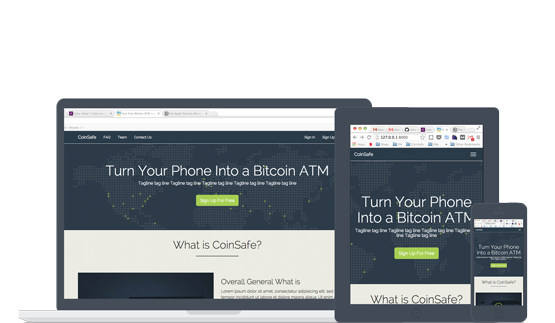
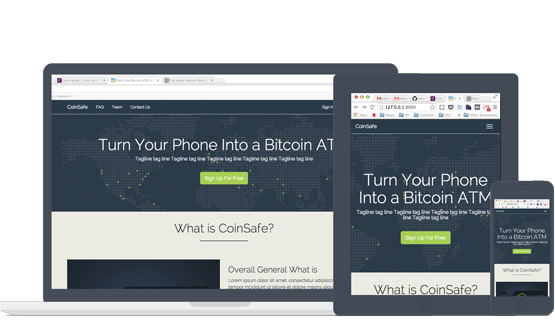
Update to the graphics on the what is coinsafe section on the homepage.

diff --git a/templates/index.html b/templates/index.html
@@ -41,52 +41,48 @@
   </div>
 
   <div class="container">
-    <div class="row" style="padding:30px 0;">
+    <div class="row">
       <div class="col-md-6">
         <p><img class="img-responsive" src="{% static "img/videoscrn.jpg" %}" alt="Generic placeholder image" style="margin:0 auto;cursor:pointer;" onclick="$('#play-video-modal').modal();"></p>
       </div>
       <div class="col-md-6">
           <h2 style="margin-top:70px;">{% trans "Overall General What is" %}</h2>
           <p>{% trans "Lorem ipsum dolor sit amet, consectetur adipisicing elit, sed do eiusmod tempor incididunt ut labore et dolore magna aliqua. Ut enim ad minim veniam, quis nostrud exercitation ullamco laboris nisi ut aliquip ex ea commodo consequat." %}</p>
+<!--           <p><button type="button" class="btn btn-primary btn-md">Watch the Video</button></p>
+ -->      </div>
+    </div>
+  </div>
+
+  <hr class="featurette-break">
+
+  <div class="container">
+    <div class="row">
+      
+      <div class="col-md-6">
+        <h2 style="margin-top:70px;">{% trans "Some More What is" %}</h2>
+          <p>{% trans "Lorem ipsum dolor sit amet, consectetur adipisicing elit, sed do eiusmod tempor incididunt ut labore et dolore magna aliqua. Ut enim ad minim veniam, quis nostrud exercitation ullamco laboris nisi ut aliquip ex ea commodo consequat." %}</p>
+      </div>
+
+      <div class="col-md-6">
+        <p><img class="img-responsive" src="{% static "img/exchange.png" %}" alt="Generic placeholder image" style="margin:0 auto;"></p>
       </div>
     </div>
   </div>
 
-  <hr>
+  <hr class="featurette-break">
 
   <div class="container">
-    <div class="row" style="padding:30px 0;">
-      <div class="col-md-6">
-          <h2>{% trans "For Merchants" %}</h2>
-          <p>{% trans "Our easy to use software makes it easy to turn your store into the neighborhood bitcoin trading post" %}</p>
-          <ul class="feature-list">
-            <li>{% trans "Set your own prices and earn money buying and selling bitcoin with you customers" %}</li>
-            <li>{% trans "Drive new customers into your store" %}</li>
-            <li>{% trans "Simple, secure, and easy to use - you don't need to understand bitcoin to use our app" %}</li>
-          </ul>
-      </div>
+    <div class="row">
+
       <div class="col-md-6">
         <p><img class="img-responsive" src="{% static "img/devices.png" %}" alt="Generic placeholder image" style="margin:0 auto;"></p>
       </div>
-    </div>
-  </div>
 
-  <hr>
-
-  <div class="container">
-    <div class="row" style="padding:30px 0;">
       <div class="col-md-6">
-        <p><img class="img-responsive" src="{% static "img/videoscrn.jpg" %}" alt="Generic placeholder image" style="margin:0 auto;"></p>
+          <h2 style="margin-top:70px;">{% trans "And Some More What is" %}</h2>
+          <p>{% trans "Lorem ipsum dolor sit amet, consectetur adipisicing elit, sed do eiusmod tempor incididunt ut labore et dolore magna aliqua. Ut enim ad minim veniam, quis nostrud exercitation ullamco laboris nisi ut aliquip ex ea commodo consequat." %}</p>
       </div>
-      <div class="col-md-6">
-        <h2>{% trans "For Customers" %}</h2>
-        <p>{% trans "Find a CoinSafe location near you to buy or sell bitcoin" %}</p>
-        <ul class="feature-list">
-          <li>{% trans "Simple and fast - exchanging bitcoin is as easy as buying your morning coffee" %}</li>
-          <li>{% trans "Buy with cash, sell for cash - get access to bitcoin without needing a bank account" %}</li>
-          <li>{% trans "Stores you can trust - dealing with an established business means no more meeting withs sketchy strangers" %}</li>
-        </ul>
-      </div>
+  
     </div>
   </div>
 
@@ -133,7 +129,7 @@
       </div>
     </div>
 
-    <hr>
+    <hr class="featurette-break">
 
     <div class="testimonials">
       <p class="text-center quote">

diff --git a/static/css/custom.css b/static/css/custom.css
@@ -229,14 +229,16 @@ hr {
     position:relative;
     margin:0 36px 36px 36px;
 }
-.section-title:after {
+.section-title:after, hr.featurette-break {
     content: " ";
     border-bottom: 2px solid #2a3b48;
     display: block;
-    width: 4em;
+    width: 180px;
     margin: 20px auto;
 }
-
+hr.featurette-break {
+    margin:36px auto;
+}
 /* What is coinsafe section */
 .what-is-coinsafe {
     font-size:1.2em;
